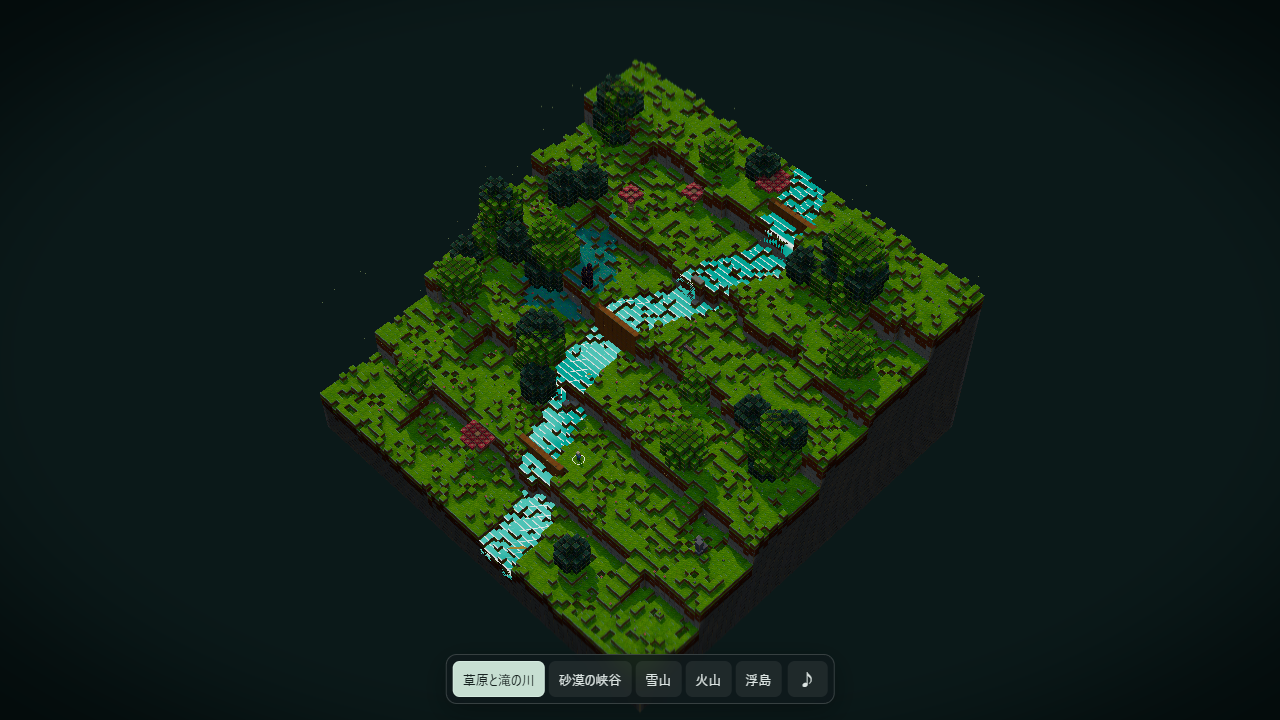
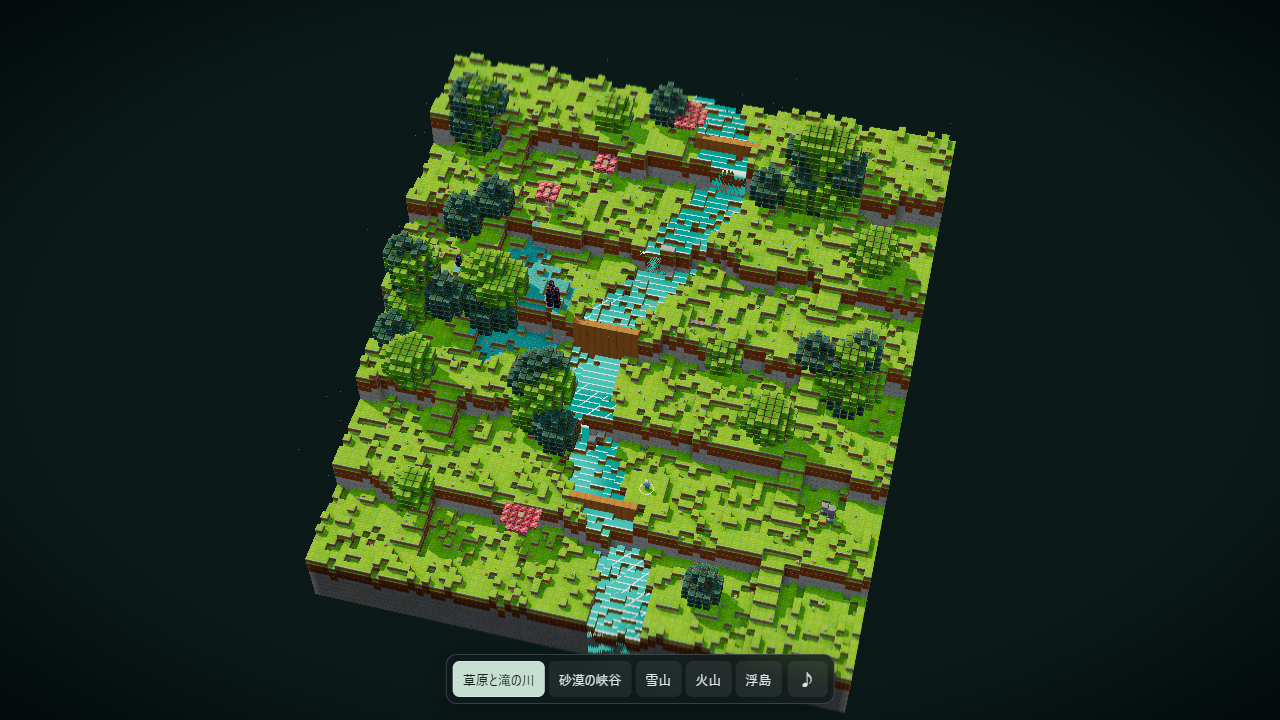
M-0188: 実行画面の光を強くし（r160 は π で割られる）、見本と同じほぼ正面の見下ろしにする

diff --git a/public/diorama/js/world.js b/public/diorama/js/world.js
@@ -56,7 +56,7 @@ const camera = new THREE.PerspectiveCamera(24, window.innerWidth / window.innerH
 const FAR_PITCH = THREE.MathUtils.degToRad(52);
 const NEAR_PITCH = THREE.MathUtils.degToRad(36);
 const CAMERA_NEAR_DISTANCE = 18;
-const yaw = THREE.MathUtils.degToRad(45);
+const yaw = THREE.MathUtils.degToRad(14);   // 見本と同じ、ほぼ正面からの見下ろし
 const cameraForwardXZ = new THREE.Vector2(-Math.sin(yaw), -Math.cos(yaw));
 const cameraRightXZ = new THREE.Vector2(Math.cos(yaw), -Math.sin(yaw));
 const cameraGoal = new THREE.Vector3();
@@ -984,9 +984,10 @@ function setLight(stage) {
   hemiLight.color.set(light.skyColor || '#c6e6ff');
   hemiLight.groundColor.set(light.groundColor || '#635747');
   const scale = clamp(Number(light.sunPower ?? 3) / 3, 0.65, 1.15);
-  hemiLight.intensity = Number(light.hemiPower ?? 0.9) * scale;
+  // r160 の光は π で割られるので、日なたが白飛びしない範囲で π 前後の強さにする（影の中は日なたの 55% くらい）
+  hemiLight.intensity = Math.max(1.5, 2.1 * Number(light.hemiPower ?? 0.9) / 0.9);
   sunLight.color.set(light.sunColor || '#ffe7bf');
-  sunLight.intensity = hemiLight.intensity * 0.67;
+  sunLight.intensity = 2.3 * scale;
   const lightDistance = Math.max(40, size * 1.2);
   sunLight.position.copy(center).addScaledVector(sunDirection, lightDistance);
   sunLight.target.position.copy(center);
